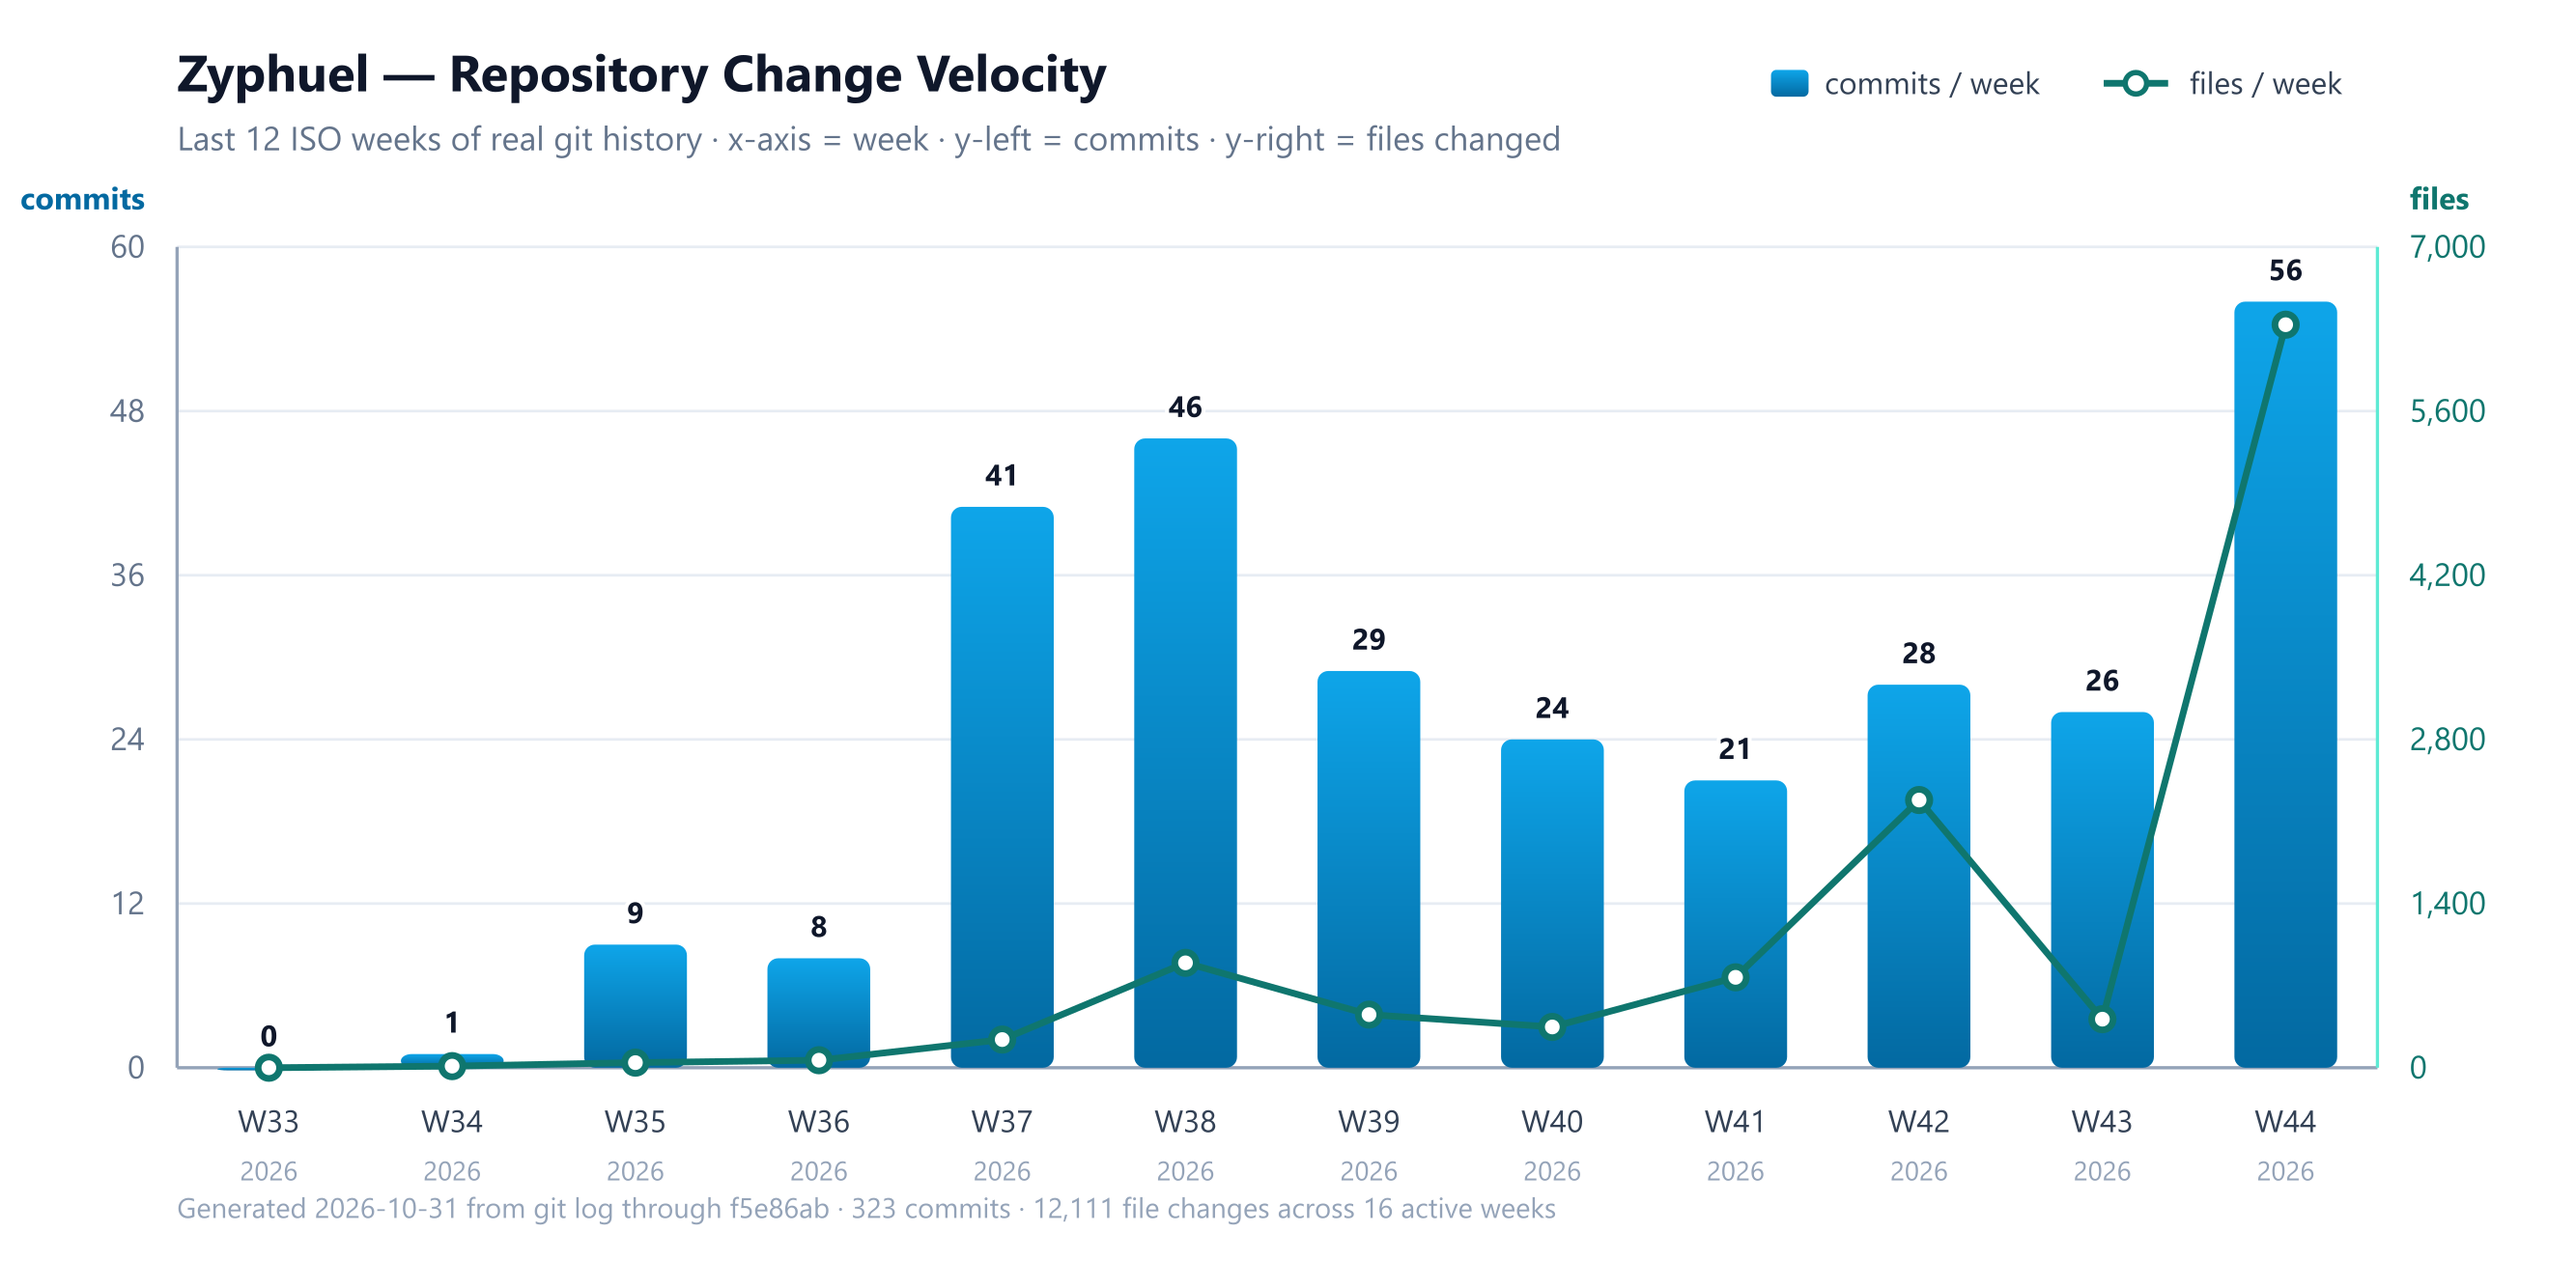
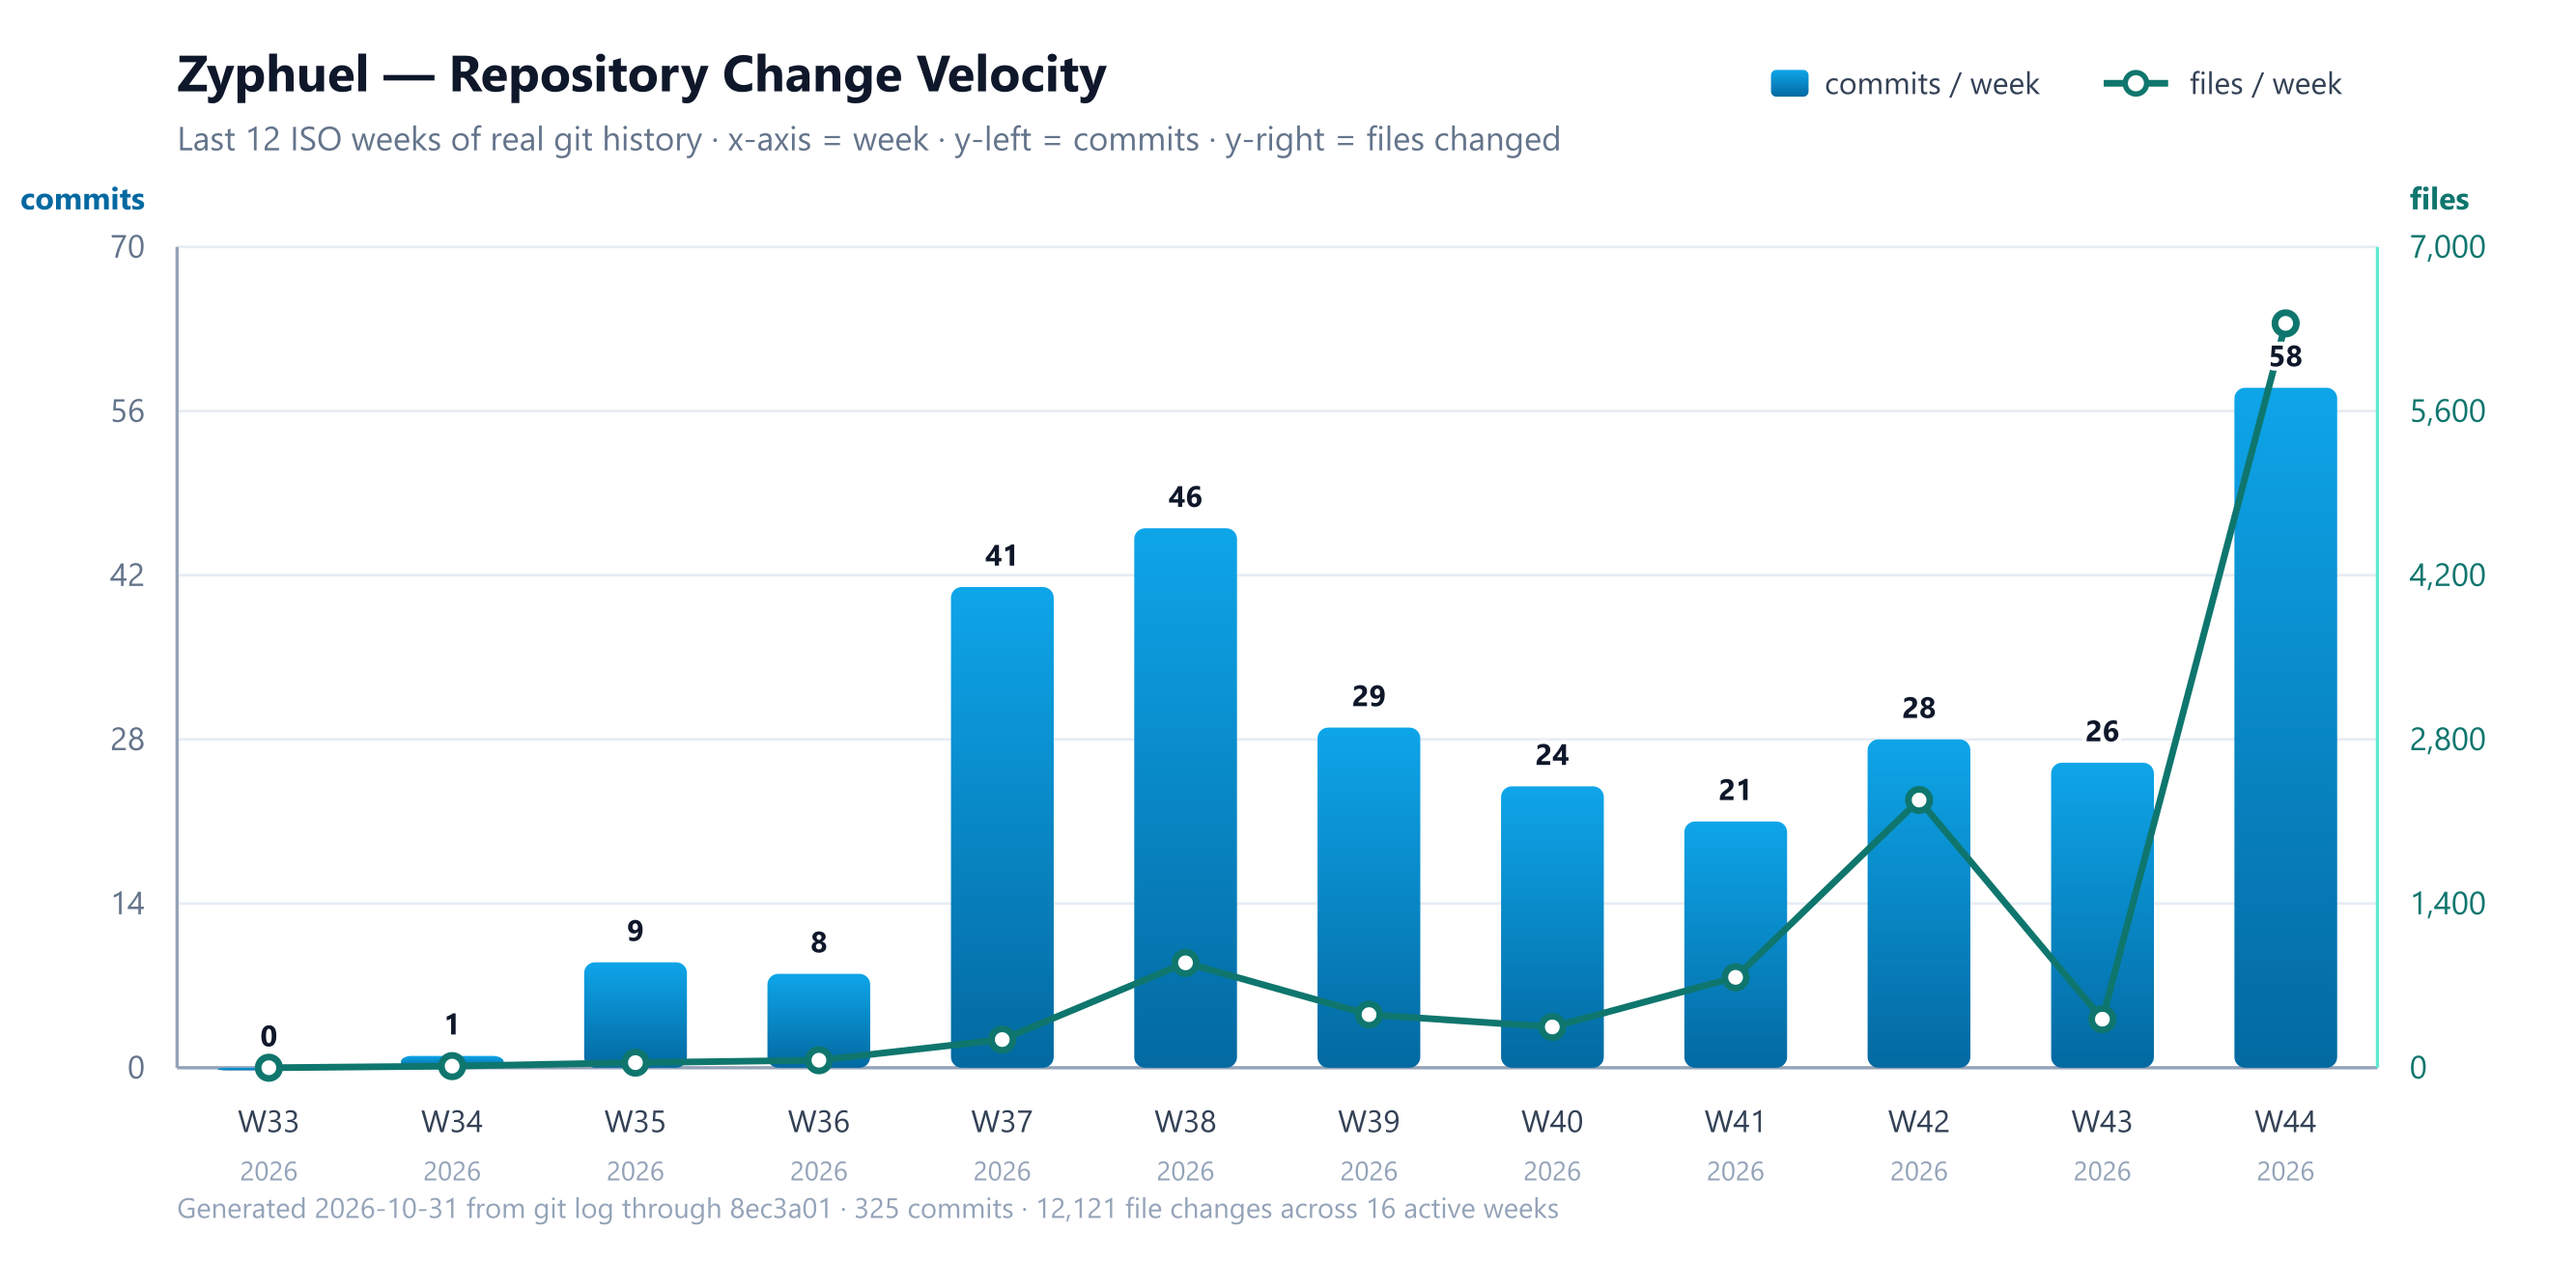
chore(graph): re-render activity chart through 8ec3a01
The velocity chart is generated from git history, so it is rebuilt after the report
commit: 325 commits and 12,121 file changes through 8ec3a01, with the README telemetry
table and the reports hub citing the same numbers.

Generated with Codebuff 🤖

diff --git a/docs/reports/README.md b/docs/reports/README.md
@@ -37,7 +37,7 @@ The repository change-velocity graph is back, generated from real git history by
 
 ![Zyphuel repository change velocity: commits and files changed per ISO week](./charts/development-activity.svg)
 
-[PNG](./charts/development-activity.png) · x-axis = ISO week, left y-axis = commits, right y-axis = files changed · 323 commits, 12,111 file changes through `f5e86ab`.
+[PNG](./charts/development-activity.png) · x-axis = ISO week, left y-axis = commits, right y-axis = files changed · 325 commits, 12,121 file changes through `8ec3a01`.
 
 [Open the full report](./2026-10-31-sitemap-loop-and-activity-graph.md)
 

diff --git a/README.md b/README.md
@@ -190,7 +190,7 @@ Every number below is computed from `git log`, never typed by hand. Refresh it w
 
 | ⚡ Total Commits | 🗓 Active Days | 🚀 Peak 24H Burst | 📄 File Changes | 🏷 Release Version |
 | :---: | :---: | :---: | :---: | :---: |
-| **323** | **75 across 16 weeks** | **14 on 2026-10-26** | **12,111** | **v2.6.4.0.0.33** |
+| **325** | **75 across 16 weeks** | **14 on 2026-10-26** | **12,121** | **v2.6.4.0.0.33** |
 
 *Snapshot taken when the graph was last regenerated. GitHub's commit list is the live count; every commit after a refresh makes these read one lower, which is expected.*
 
